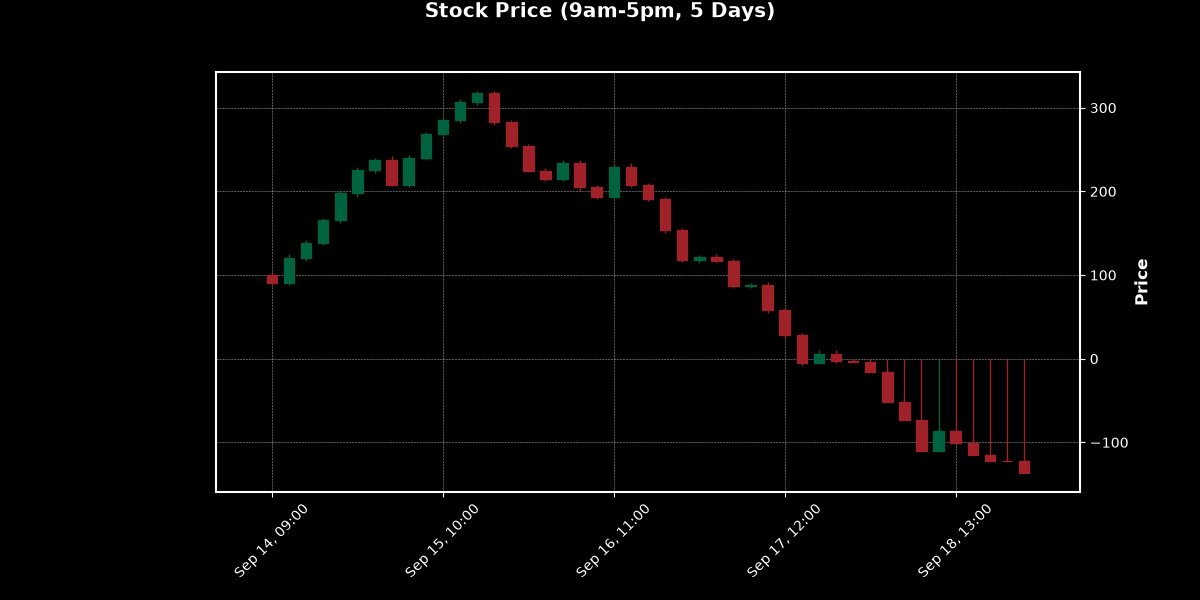
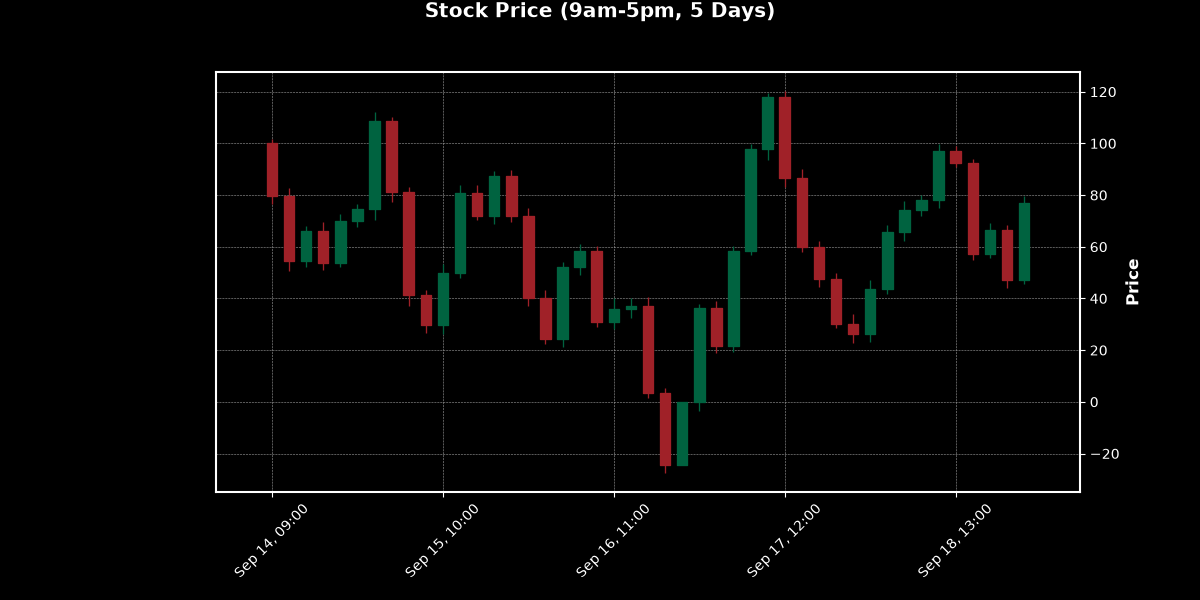
fixed the negative error,

diff --git a/maths&stats/price_modeling.py b/maths&stats/price_modeling.py
@@ -32,7 +32,7 @@ for offset in range(5):
 rows = []
 prev_close = 100.0
 #Scales from 1 to 100
-vol_index = 92
+vol_index = 100
 for idx, ts in enumerate(all_timestamps):
     open_price = prev_close
     close_price = open_price + (6/15)*(rand.uniform(-vol_index,vol_index))
@@ -42,8 +42,11 @@ for idx, ts in enumerate(all_timestamps):
     #    low = (0.8*prev_close)
     #if high > (1.4*prev_close):
     #    high = (1.4*prev_close)
-    if prev_close <= 0:
+    if prev_close < 0:
         low = 0
+        close_price = 0
+        high = 0
+
 
     row = {
         "Open": round(open_price, 2),
